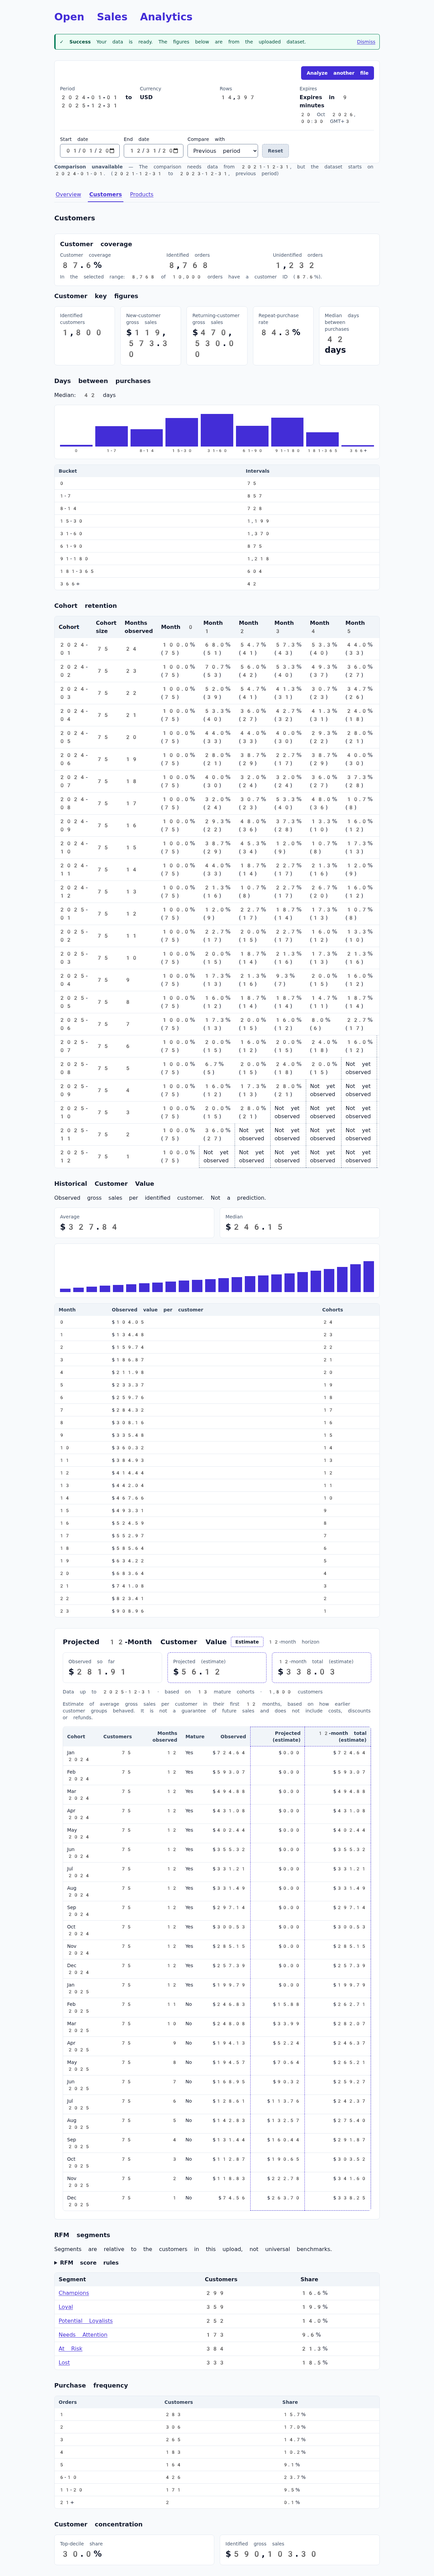
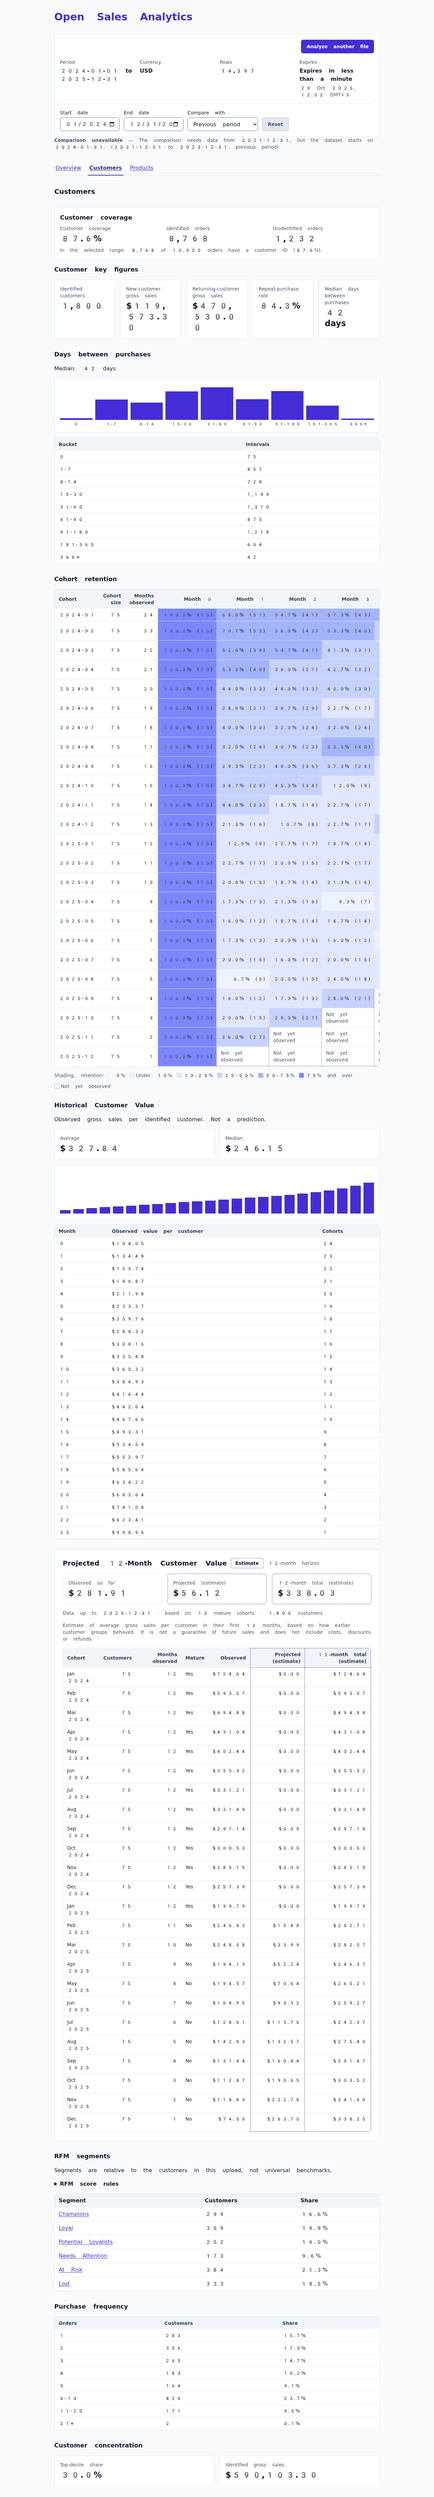
docs: add license, contributing guide, issue templates and Phase 3 README tour
- Apache License 2.0 (LICENSE)
- CONTRIBUTING.md and bug/feature issue templates
- README walkthrough uses Phase 3 screenshots (re-captured: the old ones
  showed loading skeletons and an empty Products page), adds a Roadmap
  from spec §20, Contributing and License sections, and documents the
  401/404 dataset-existence behaviour as an accepted risk

diff --git a/README.md b/README.md
@@ -9,7 +9,8 @@ Contents: [Run it with Docker](#run-it-with-docker) | [Configuration](#configura
 [Explore the results](#explore-the-results) |
 [Product analytics](#product-analytics) | [Customer analytics](#customer-analytics) | [Comparisons](#comparisons) |
 [Dataset contract](#dataset-contract) | [Currencies](#currencies) | [Privacy](#privacy) |
-[Demo mode](#demo-mode) | [Limitations](#limitations) | [Architecture](#architecture) | [Development](#development)
+[Demo mode](#demo-mode) | [Limitations](#limitations) | [Roadmap](#roadmap) | [Architecture](#architecture) |
+[Development](#development) | [Contributing](#contributing) | [License](#license)
 
 ## Run it with Docker
 
@@ -100,7 +101,7 @@ Choose `backend/app/sample/sample_sales.csv`, select **USD** and click **Upload*
 
 ### 6. Explore the results
 
-The dashboard opens on the full period of the data, 2024-01-01 to 2025-12-31:
+The dashboard opens on **Overview** with the full period of the data, 2024-01-01 to 2025-12-31:
 
 | Metric              | Expected value |
 | ------------------- | -------------- |
@@ -110,21 +111,30 @@ The dashboard opens on the full period of the data, 2024-01-01 to 2025-12-31:
 | Units sold          | 24,380         |
 | Average order value | $67.58         |
 
-![Dashboard with KPIs and the weekly gross sales trend](_docs/images/demo-dashboard.png)
+![Overview: key figures, the monthly gross sales trend and the top 10 products](_docs/images/phase-3/overview.png)
 
-The last point of the weekly chart drops and is hollow: 29–31 Dec is a partial week
-(see [Trend buckets](#trend-buckets)), not a fall in sales.
+The full period covers 24 months, so the trend is monthly (see [Trend buckets](#trend-buckets)). Change **Start date**
+and **End date** to filter every figure; **Reset** returns to the full period. **Compare with** adds the previous period
+or the same period last year; for the full period it is unavailable, because the data starts on 2024-01-01.
 
-Change **Start date** and **End date** to filter every figure; **Reset** returns to the full period.
-Below the trend, the top 10 products by gross sales:
+**Products** shows the rankings, the share of gross sales with its cumulative Pareto chart, rising and falling
+products, dormant products and products bought together, here for 2025 compared with 2024
+(see [Product analytics](#product-analytics)):
 
-![Top 10 products by gross sales](_docs/images/demo-top-products.png)
+![Products: rankings, Pareto chart, rising and falling products, dormancy and product pairs](_docs/images/phase-3/products.png)
+
+A product name opens its detail: the gross sales trend, the average price paid per unit, order penetration and the
+products bought with it.
+
+![Product detail: gross sales trend, weighted unit price, order penetration and related products](_docs/images/phase-3/product-detail.png)
+
+**Customers** shows coverage, customer key figures, days between purchases, the cohort retention heatmap, Historical
+Customer Value, the Projected 12-Month Customer Value, RFM segments, purchase frequency and concentration
+(see [Customer analytics](#customer-analytics)):
+
+![Customers: coverage, key figures, cohort retention heatmap, value, RFM, frequency and concentration](_docs/images/phase-3/customers.png)
 
 **Analyze another file** deletes this dataset and returns to the upload screen.
-
-The dashboard is organized into Overview, Customers and Products sections. The Customers API exposes aggregate
-coverage and customer analyses; Products contains the portfolio analyses described in
-[Product analytics](#product-analytics).
 
 ## Comparisons
 
@@ -148,7 +158,7 @@ costs are outside this dataset contract. Each product name and ID is displayed a
 | Cumulative share — `cumulative_share` | Running gross sales / total gross sales | Active range; unavailable when total is zero | The first three golden products reach 85.00% |
 | Product growth — `product_growth` | Current gross sales minus comparison gross sales; percentage uses the comparison value | Comparison period; `New`, `No current sales`, `No change`, or unavailable comparison avoid misleading percentages | 10 to 20 is +10 and +100.00% |
 | Rising/falling ranking — `rising_products`, `falling_products` | Rank by absolute gross-sales change | Selected comparison; unavailable when comparison is unavailable | A +10 change ranks above a +900% change of +1 |
-| Dormant products — `dormancy` | Products with no sale in the selected 30, 60 or 90-day window; earlier totals use sales before the window | Anchored to the dataset's latest date, default 60; insufficient history or zero result are distinct. A sale exactly N days before the anchor is inside the window | A product last sold 60 days before the anchor is included for a 60-day window |
+| Dormant products — `dormancy` | Products with no sale in the selected 30, 60 or 90-day window; earlier totals use sales before the window | Anchored to the selected range's end date (the dataset's latest date for the full range), default 60; insufficient history or zero result are distinct. A sale exactly N days before the anchor is inside the window | A product last sold 60 days before the anchor is included for a 60-day window |
 | Weighted unit price — `weighted_unit_price` | SUM(quantity × unit price) / SUM(quantity) | Active range buckets; missing-sales buckets are gaps, not zero prices | 1 unit at 10 plus 3 at 20 gives 17.50 |
 | Order penetration — `order_penetration` | Distinct orders containing the product / all distinct orders | Active range; zero orders is a zero result | 25 of 200 orders is 12.50% |
 | Support — `basket_support` | Shared orders / eligible basket orders | Active range; at least 10 shared orders and 0.1% support are required | 10 shared orders in 10,000 gives 0.10% |
@@ -493,6 +503,9 @@ the amounts. There is no conversion and no exchange rate. Any other code is refu
   expiry or deletion removes the dataset's cached responses. The cache is not shared between instances.
 - Access needs a random bearer token. The browser keeps it in `sessionStorage`, so it is gone when the tab closes.
   The server keeps only a SHA-256 hash of it.
+- A missing or expired dataset ID answers 404 and a wrong token for an existing dataset answers 401, so the status shows
+  whether an ID exists. This is an accepted risk: IDs are 128-bit random values that cannot be guessed, and a dataset
+  stays unreadable without its token.
 - The logs are one JSON line per request with the method, path, status, duration and the dataset ID. The dataset ID is
   logged on purpose, so a request can be traced; it is not a secret and cannot be used without the token. The logs
   never contain tokens, file contents, file names, product names or order IDs. Error logs hold exception class names
@@ -529,6 +542,19 @@ instance. To analyze your own files, [run it yourself](#run-it-with-docker).
 - 50 MB and 500,000 rows by default.
 - Phone, tablet and desktop widths (360 px and up); wide tables scroll inside their own region (see
   [`_docs/design-system.md`](_docs/design-system.md)).
+
+## Roadmap
+
+Phase 3 is complete. The next candidates, from the [Phase 3 specification](_docs/open_sales_analytics_phase_3_spec.md#20-deferred-roadmap):
+
+- **Phase 4: managed product foundation.** A central application database, accounts, ownership, saved datasets and
+  persistent dashboards.
+- **Phase 4: hosted ingestion.** Protected public uploads with rate limits, isolation, abuse controls and monitoring.
+- **Phase 4: financial contract layer.** Optional `discount_amount`, `refund_amount` and `unit_cost` columns, with net
+  sales, discount, refund and margin analytics.
+- **Later:** Shopify, WooCommerce and marketplace format mappers; multi-file and multi-channel datasets; customer
+  activation and export with an explicit privacy model; larger asynchronous imports; forecasting or anomaly detection
+  only after a validated user need.
 
 ## Architecture
 
@@ -692,3 +718,11 @@ docker rm -f oca
 On failure a trace and a screenshot are saved in `frontend/test-results/` (open a trace with `npx playwright show-trace`).
 With `CI` set (as on GitHub Actions) no trace is recorded, because a trace contains the network responses, and CI uploads
 only the failure screenshots.
+
+## Contributing
+
+Bug reports, ideas and pull requests are welcome; see [`CONTRIBUTING.md`](CONTRIBUTING.md).
+
+## License
+
+Licensed under the [Apache License, Version 2.0](LICENSE).

diff --git a/CONTRIBUTING.md b/CONTRIBUTING.md
@@ -1,0 +1,63 @@
+# Contributing
+
+Thanks for helping with Open Sales Analytics. Bug reports, ideas and pull requests are all welcome.
+
+## Reporting a bug or asking for a feature
+
+Open an issue with the **Bug report** or **Feature request** template. For a bug, the smallest CSV that shows it
+helps most. Never attach real customer data: use made-up order and customer IDs. Report a security problem privately
+through GitHub's **Report a vulnerability** button on the Security tab, not in a public issue.
+
+## How work is organized
+
+- Work is tracked as GitHub issues, one at a time. An issue states its goal, acceptance criteria, what is out of
+  scope and its constraints ([`_docs/task-template.md`](_docs/task-template.md)).
+- Work on a branch named after the issue, for example `feature/issue-42-short-name`. Never commit to `main`.
+- One pull request per issue. It is merged after review and once the required CI checks pass.
+
+The full process is in [`_docs/process.md`](_docs/process.md).
+
+## Setting up
+
+You need [uv](https://docs.astral.sh/uv/) and Node 22 or newer.
+
+```sh
+uv sync                    # backend and dev tools
+(cd frontend && npm ci)    # frontend
+```
+
+[Development](README.md#development) in the README explains how to run the backend and the frontend.
+
+## Before you open a pull request
+
+Run the checks CI runs:
+
+```sh
+uv run pytest
+uv run ruff check backend
+uv run ruff format --check backend
+uv run mypy backend/app
+cd frontend
+npm test
+npm run lint
+npm run typecheck
+npm run build
+```
+
+For a change to a user journey, also run the browser tests (`npm run e2e` in `frontend/`, see
+[Browser test](README.md#browser-test)).
+
+## Rules
+
+- **Tests.** New behaviour comes with tests. Read [`_docs/testing-guidelines.md`](_docs/testing-guidelines.md) first.
+- **UI.** Anything that touches the UI follows [`_docs/design-system.md`](_docs/design-system.md). A pattern it does not
+  cover gets a line there in the same change.
+- **Dependencies.** Ask in the issue before you add one. Dependencies are declared in `pyproject.toml` and
+  `frontend/package.json`.
+- **Wording.** The measure is "gross sales", never "revenue".
+- **Privacy.** Nothing may log or display tokens, file contents or customer IDs (see
+  [Privacy](README.md#privacy)).
+
+## License
+
+By contributing, you agree that your contributions are licensed under the [Apache License 2.0](LICENSE).

diff --git a/.github/ISSUE_TEMPLATE/bug_report.md b/.github/ISSUE_TEMPLATE/bug_report.md
@@ -1,0 +1,32 @@
+---
+name: Bug report
+about: Something does not work as documented
+title: ""
+labels: bug
+---
+
+## What happened
+
+What you saw: the screen, the message or the response, including the error `code` if there is one.
+
+## What you expected
+
+What should have happened, with a link to the README section that describes it if there is one.
+
+## Steps to reproduce
+
+1. Upload ... with currency ...
+2. Choose ...
+3. See ...
+
+A minimal CSV that shows the problem (made-up IDs only, never real customer data):
+
+```csv
+order_id,order_date,product_id,product_name,quantity,unit_price
+```
+
+## Environment
+
+- How you run it: Docker image / local development / hosted demo
+- Commit or version:
+- Browser and screen width, for a display problem:

diff --git a/.github/ISSUE_TEMPLATE/feature_request.md b/.github/ISSUE_TEMPLATE/feature_request.md
@@ -1,0 +1,27 @@
+---
+name: Feature request
+about: Propose a change or a new capability
+title: ""
+labels: enhancement
+---
+
+## Problem
+
+Who needs this, and what can they not do today?
+
+## Goal
+
+One or two sentences on what should be true when this is done.
+
+## Acceptance criteria
+
+- [ ] A statement you can check by looking at the result
+- [ ] One line per case, including the awkward ones
+
+## Out of scope
+
+- What this does not include
+
+## Constraints
+
+- Files, libraries or guidelines to follow, for example [`_docs/design-system.md`](../../_docs/design-system.md)
